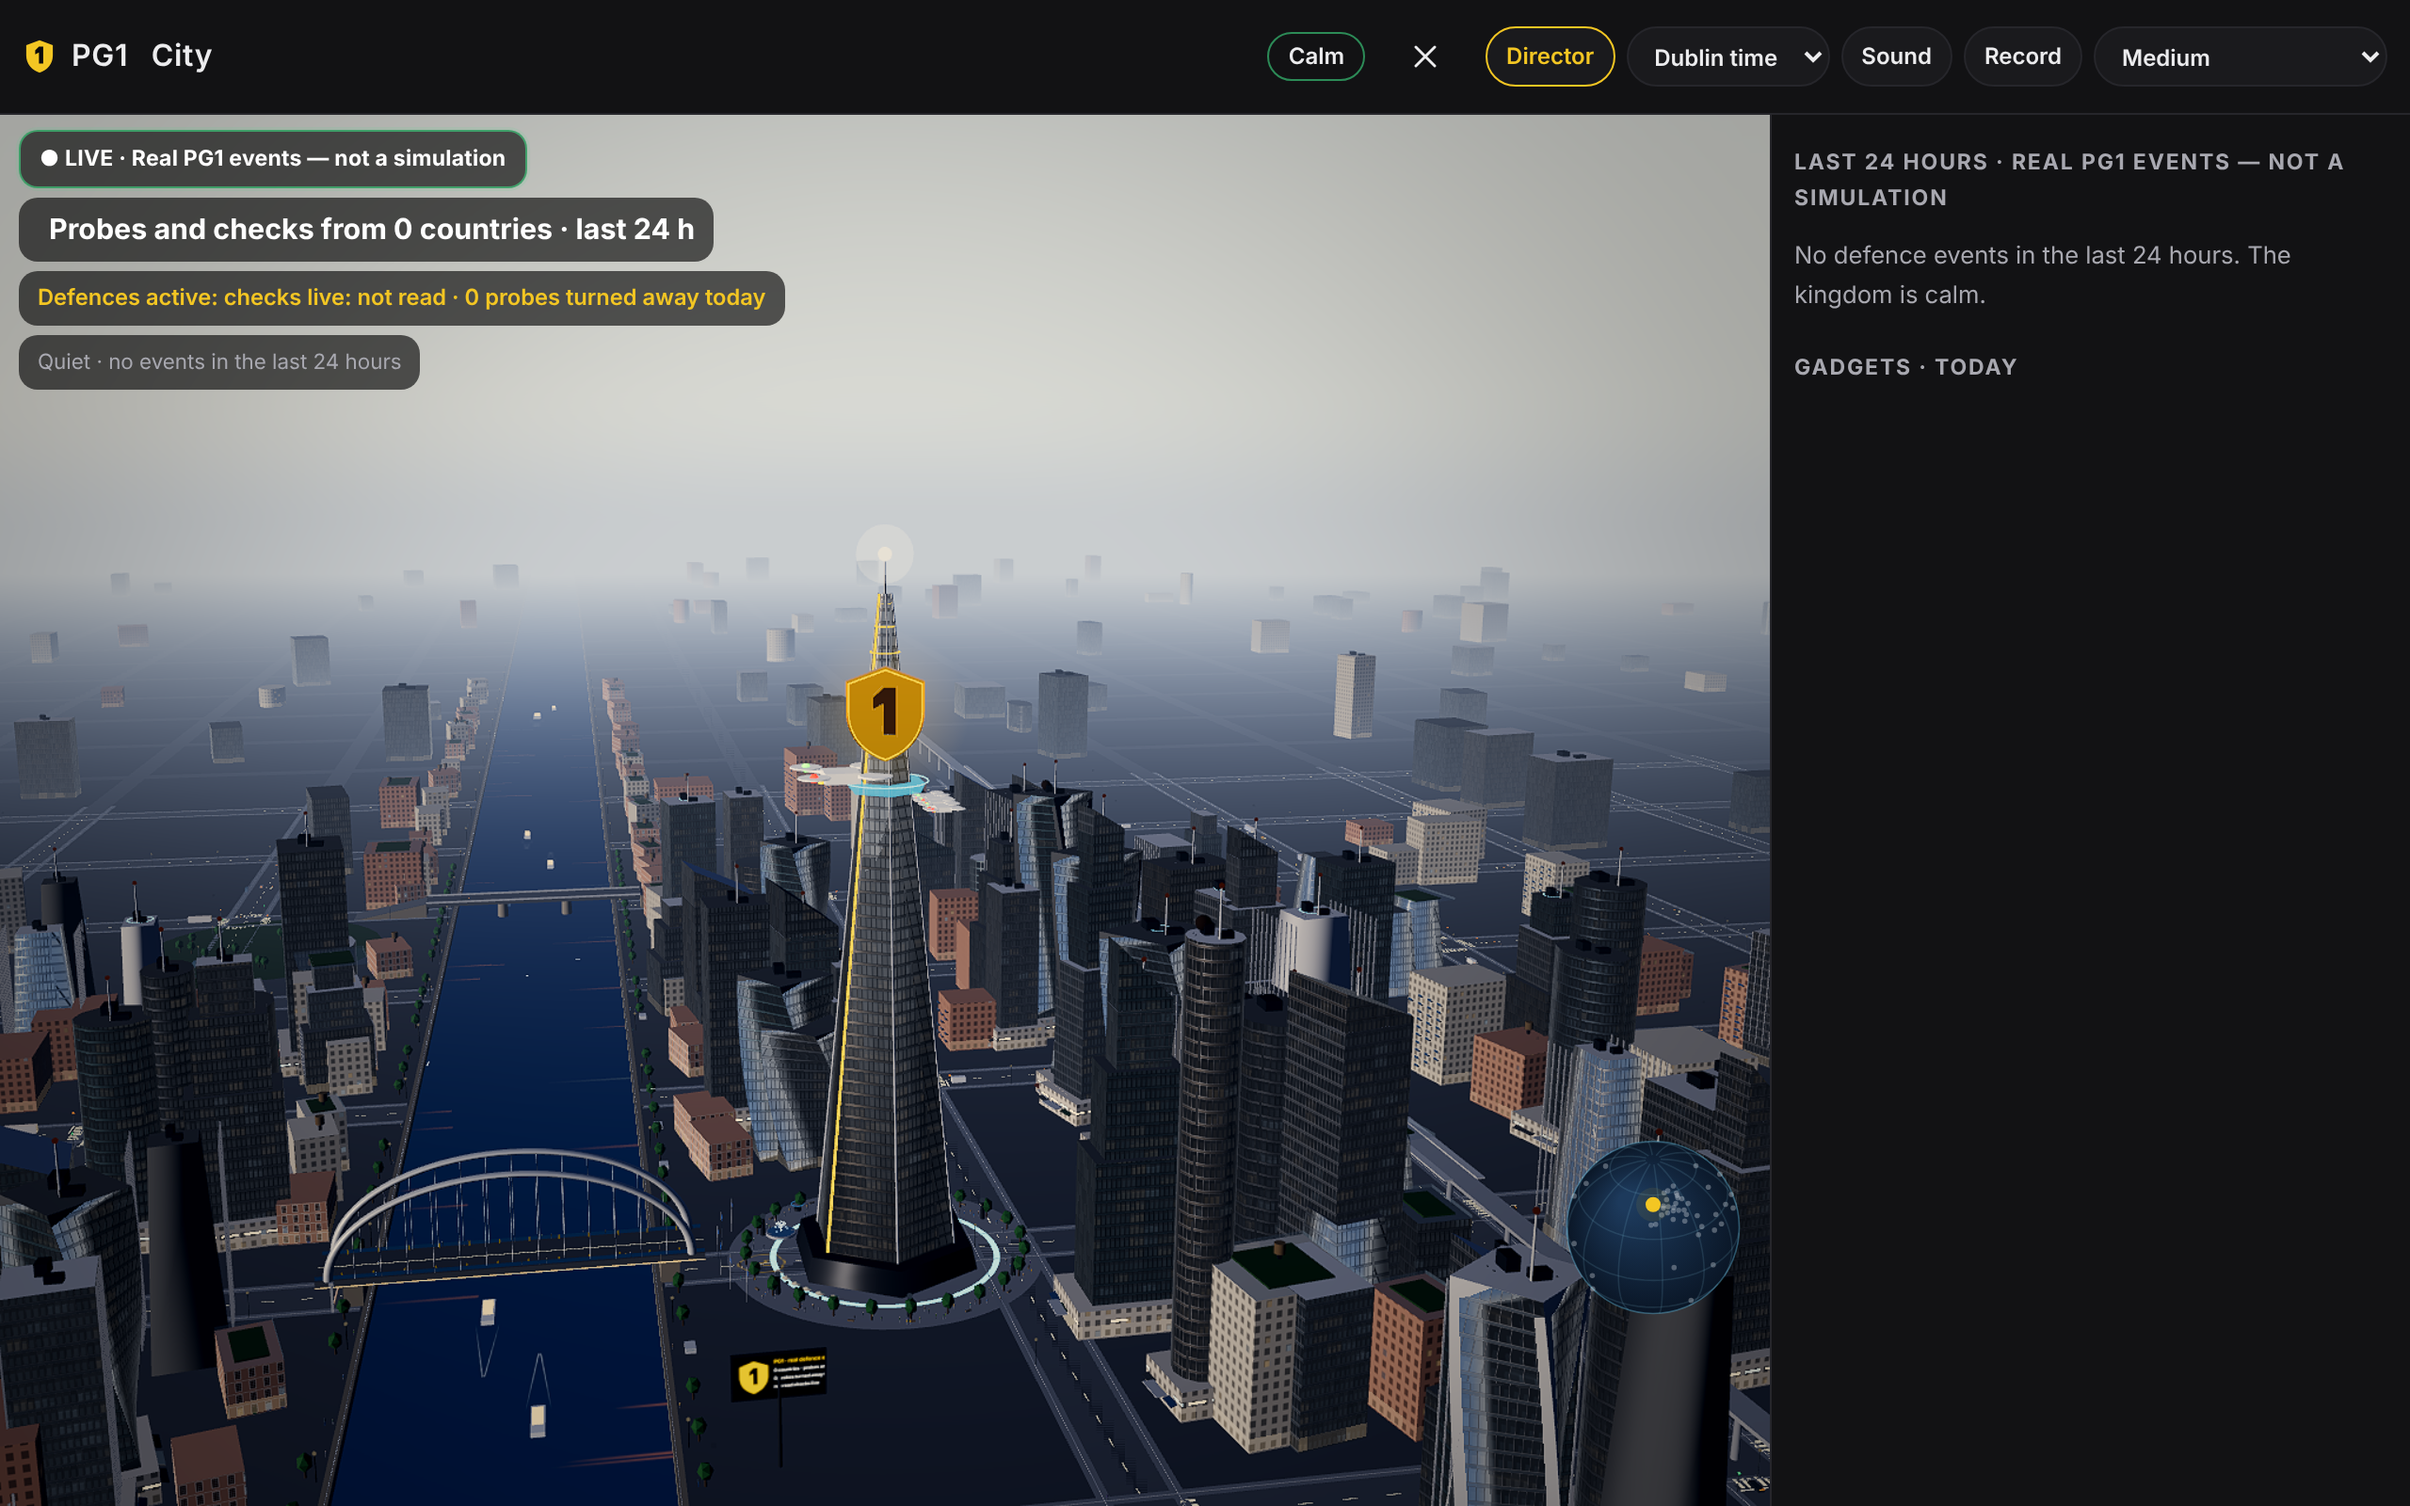
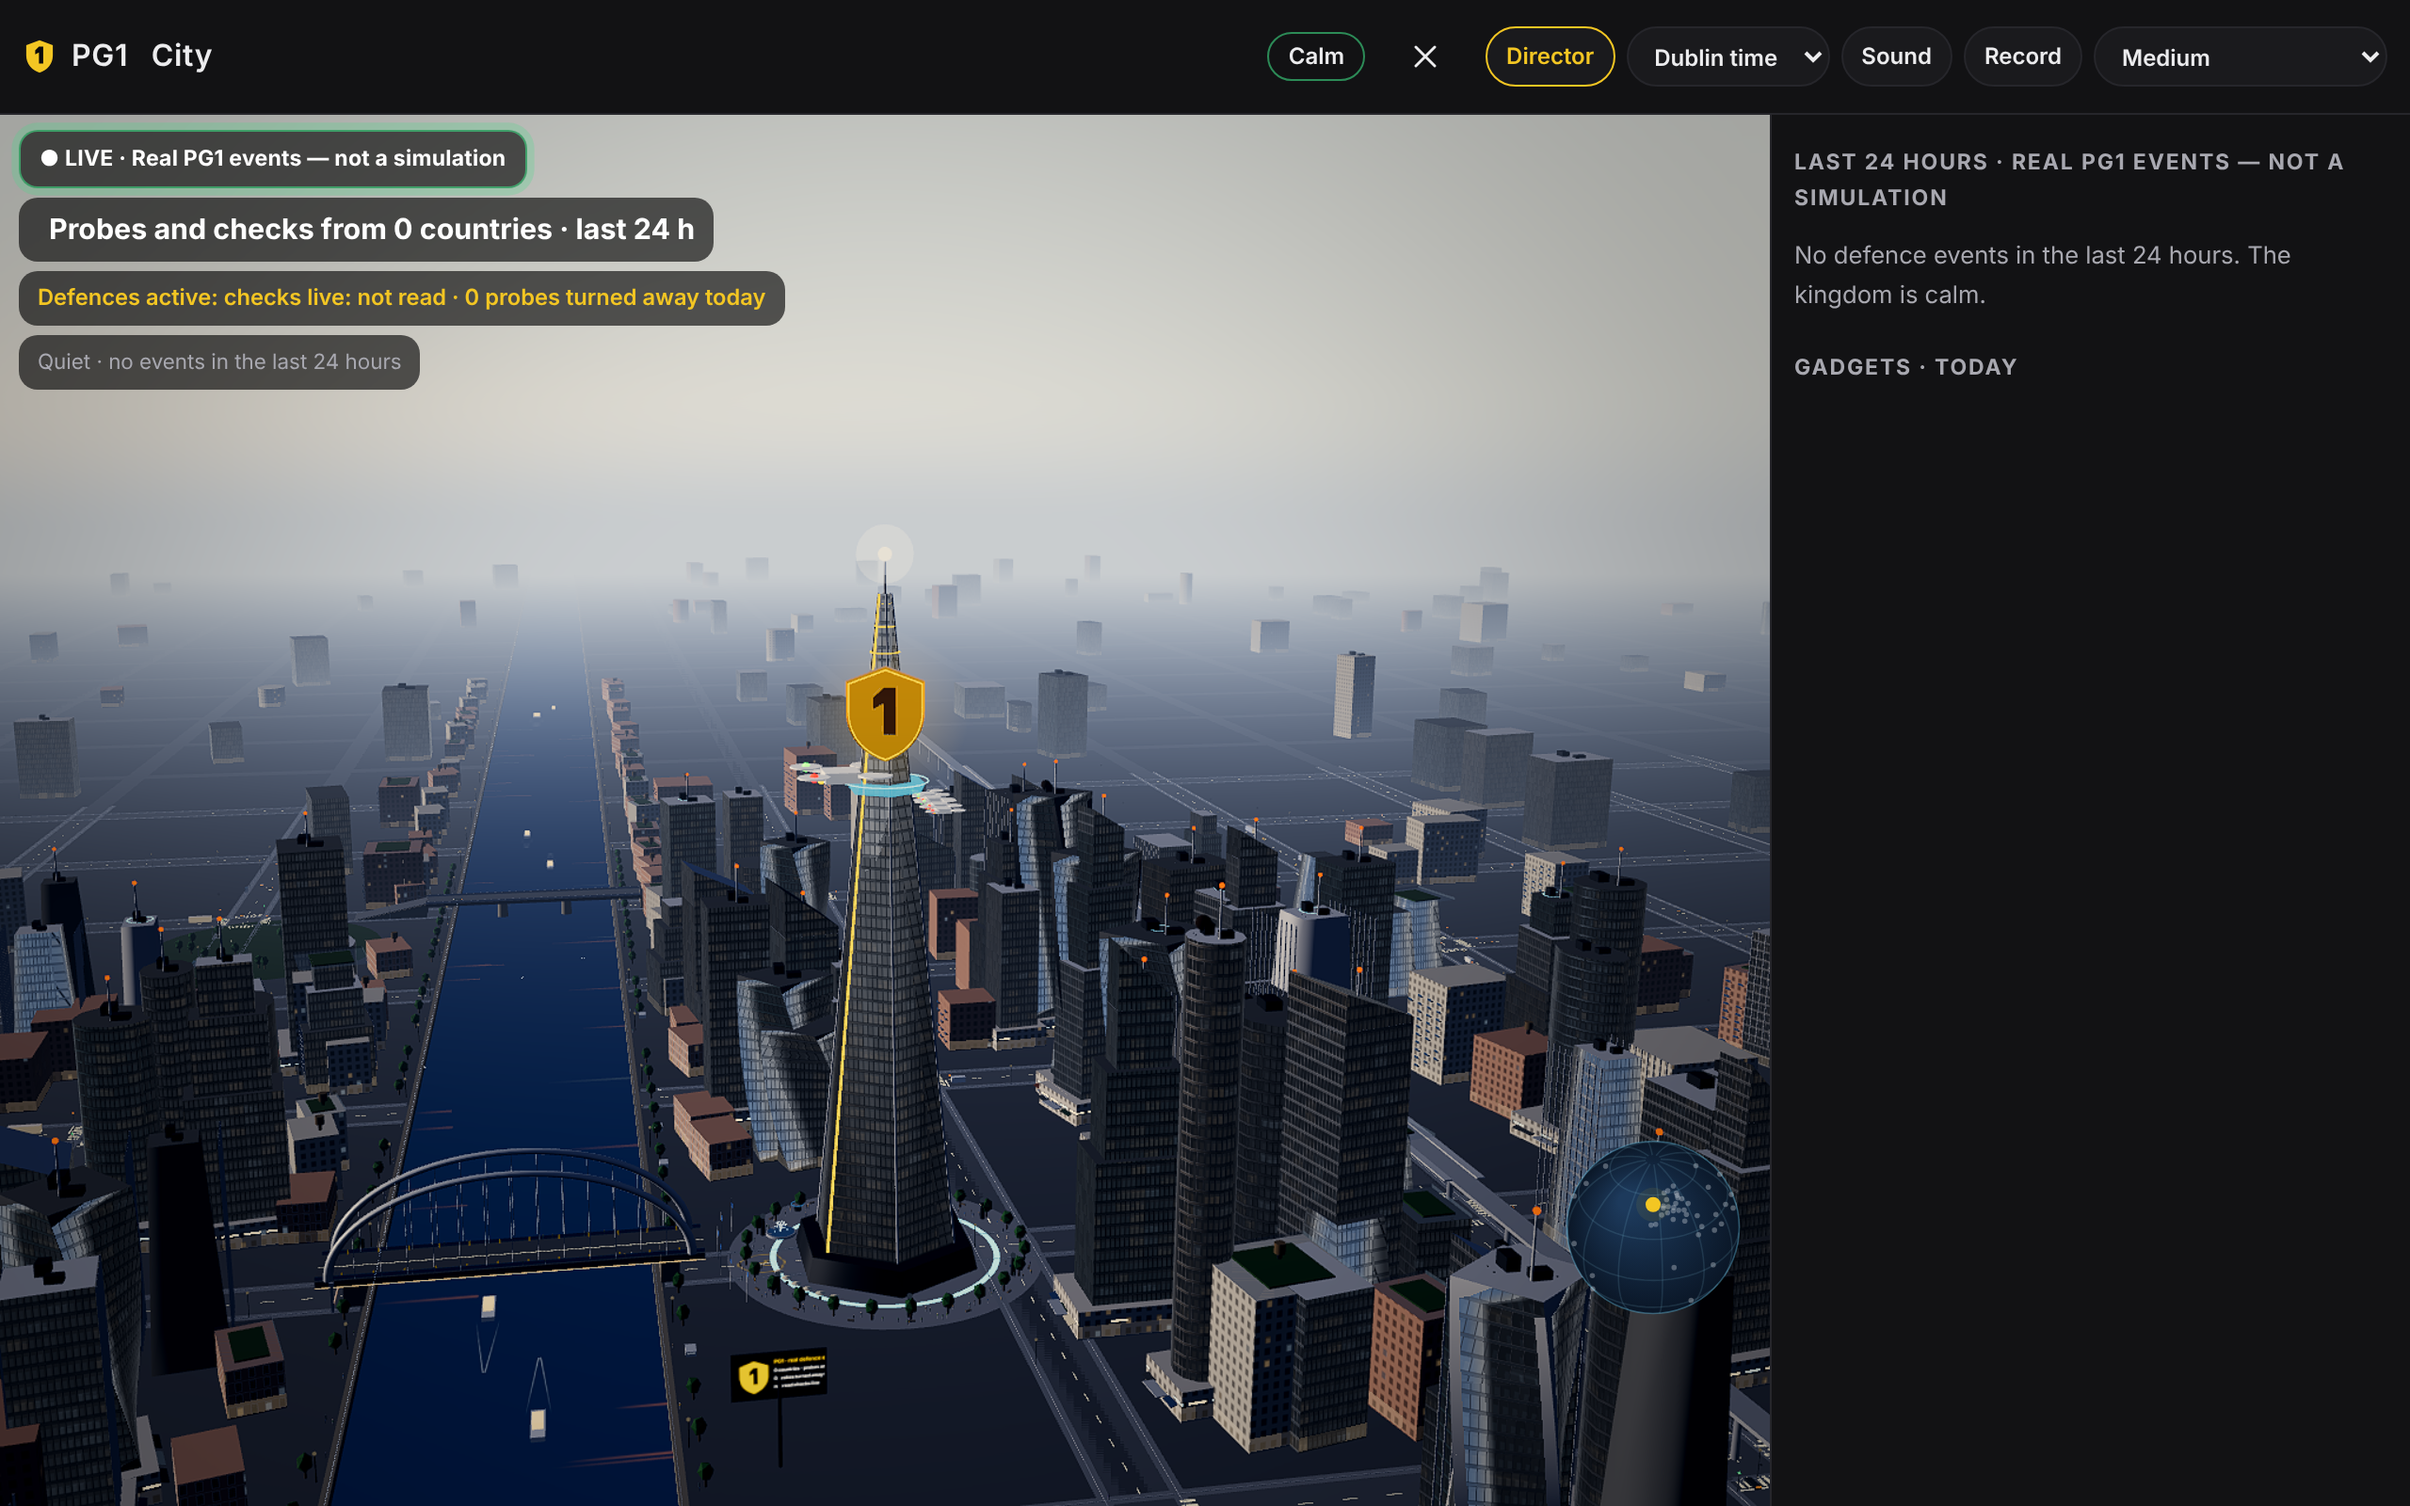
Tests green: Legacy under its triangle budget, the feed on a fixed poll cadence, the twilight browser test in one page load
- Legacy (as #439): low-poly lamp heads and drone lamps keep its night
  view under 150k triangles (the iPhone 8 test failed on main too: 156,740).
- kingdom-ui.js: the feed polls on a fixed cadence from each poll's start,
  so a slow fetch never stretches the gap; the live-arrival and empty-feed
  City tests timed out on loaded CI runners (main failed them on 23 Nov).
  tests/kingdom-poll.test.mjs.
- tests/browser/kingdom-twilight.browser.test.mjs: one City, the page clock
  moved between the seven moments (4.7 min, not about 15; CI runs browser
  files side by side, and seven loads slowed the other City tests).

Claude-Session: https://claude.ai/code/session_01X8yNKFkrAckvfbCsbkHhN5

diff --git a/public/kingdom/kingdom-actors.js b/public/kingdom/kingdom-actors.js
@@ -124,7 +124,7 @@ function navGeo(THREE) {
 }
 // The drone's lights, all unlit: nav lights, the strobe, the underglow.
 function droneLights(THREE, light) {
-  const strobe = strobeGeoQ || (strobeGeoQ = new THREE.SphereGeometry(0.11, 8, 6));
+  const strobe = strobeGeoQ || (strobeGeoQ = LEAN ? new THREE.SphereGeometry(0.11, 4, 3) : new THREE.SphereGeometry(0.11, 8, 6));
   const under = underGeoQ || (underGeoQ = (() => { const g = new THREE.CircleGeometry(1.15, 20); g.rotateX(-Math.PI / 2); return g; })());
   const um = new THREE.MeshBasicMaterial({ color: light, transparent: true, opacity: 0, blending: THREE.AdditiveBlending, depthWrite: false, side: THREE.DoubleSide });
   um.name = 'drone-underglow';
@@ -195,12 +195,14 @@ function quadParts(THREE, M, light, body = ENEMY_BODY, lean = LEAN || LEAN_DRONE
     { geo: new THREE.SphereGeometry(0.1, 8, 6), mat: new THREE.MeshBasicMaterial({ color: light }), offset: [0, -0.1, 0.5], swing: null, flat: true }
   ];
   if (lean) {
+    // Legacy (LEAN): the lamps as 16-triangle spheres (the same points of light at a phone's distance; the night view stays under 150k triangles).
+    const sph = (r) => (LEAN ? new THREE.SphereGeometry(r, 4, 3) : new THREE.SphereGeometry(r, 8, 6));
     const one = mergeColoured(THREE, [
       { geo: parts[0].geo, color: body, glow: DRONE_LOOK.selfLight },
       { geo: armsX(THREE), at: [0, 0.05, 0], color: arms, glow: DRONE_LOOK.selfLight },
-      { geo: parts[2].geo, at: [0, -0.1, 0.5], color: light, glow: 1.6 },
-      { geo: new THREE.SphereGeometry(0.12, 8, 6), at: [0.78, 0.1, 0.78], color: DRONE_LOOK.navRed, glow: 1.6 },
-      { geo: new THREE.SphereGeometry(0.12, 8, 6), at: [-0.78, 0.1, 0.78], color: DRONE_LOOK.navGreen, glow: 1.6 }
+      { geo: LEAN ? sph(0.1) : parts[2].geo, at: [0, -0.1, 0.5], color: light, glow: 1.6 },
+      { geo: sph(0.12), at: [0.78, 0.1, 0.78], color: DRONE_LOOK.navRed, glow: 1.6 },
+      { geo: sph(0.12), at: [-0.78, 0.1, 0.78], color: DRONE_LOOK.navGreen, glow: 1.6 }
     ]);
     const [, strobe, under] = droneLights(THREE, light);
     return [{ geo: one, mat: glowMaterial(THREE), offset: [0, 0, 0], swing: null, nav: true, look: parts[0].look }, strobe, under];

diff --git a/public/kingdom/kingdom-ui.js b/public/kingdom/kingdom-ui.js
@@ -25,6 +25,8 @@ import { createEventStore, eventLine, enemyLine, defenceLine, dublinTime, verdic
 
 export const KINGDOM_POLL_MS = 5000;
 export const MINI_POLL_MS = 30000;
+// The wait before the next poll (fixed cadence from the poll's start; at least 250 ms).
+export const nextPollDelay = (began, now, every = KINGDOM_POLL_MS) => Math.max(250, every - Math.max(0, now - began));
 export const STAGE_RECENT_MS = 3 * 60 * 1000;
 export const FEED_ROWS = 200;
 export const REPLAY_ON_OPEN = 6;
@@ -276,14 +278,19 @@ export function createKingdomUi({ creds, fetchImpl = (...a) => fetch(...a), doc 
     if (open) { renderTicker(); renderBadge(); }
   }
 
+  // A fixed cadence, from the start of each poll: the next poll comes
+  // KINGDOM_POLL_MS after this one began, not after its fetch ended, so a
+  // slow fetch (a busy device or network) never stretches the gap between
+  // polls: a live event shows within one interval plus one fetch.
   async function poll() {
     pollTimer = null;
     if (!open) return;
+    const began = Date.now();
     if (!doc.hidden) {
       const feed = await fetchFeed(lastAt ? lastAt - POLL_OVERLAP_MS : 0);
       if (feed && open) { fails = 0; lastOkAt = Date.now(); apply(feed); } else if (!feed) fails++;
     }
-    if (open) pollTimer = setTimeout(poll, KINGDOM_POLL_MS);
+    if (open) pollTimer = setTimeout(poll, nextPollDelay(began, Date.now()));
   }
 
   async function openView() {

diff --git a/public/kingdom/kingdom-world.js b/public/kingdom/kingdom-world.js
@@ -799,7 +799,7 @@ export function buildWorld(THREE, scene, settings, { waterMaterial = null, Refle
   const lampN = phone ? 90 : 220;
   const lampPoles = named(new THREE.InstancedMesh(new THREE.CylinderGeometry(0.15, 0.2, 8, 6), mats.steelDark, lampN), 'street-light-poles');
   const lampMat = new THREE.MeshBasicMaterial({ color: 0x6a6252 });
-  const lampHeads = named(new THREE.InstancedMesh(new THREE.SphereGeometry(0.55, 8, 6), lampMat, lampN), 'street-lights');
+  const lampHeads = named(new THREE.InstancedMesh(legacy ? new THREE.SphereGeometry(0.55, 5, 3) : new THREE.SphereGeometry(0.55, 8, 6), lampMat, lampN), 'street-lights'); // Legacy: 20-triangle lamp heads (the same glow at a phone's distance), keeping its night view under 150k triangles
   for (let i = 0; i < lampN; i++) {
     const side = i % 2 ? 1 : -1; const x = -1600 + Math.floor(i / 2) * (3200 / (lampN / 2));
     set(lampPoles, i, x, 4, RIVER.z + side * (RIVER.half + 3)); set(lampHeads, i, x, 8.2, RIVER.z + side * (RIVER.half + 3));
